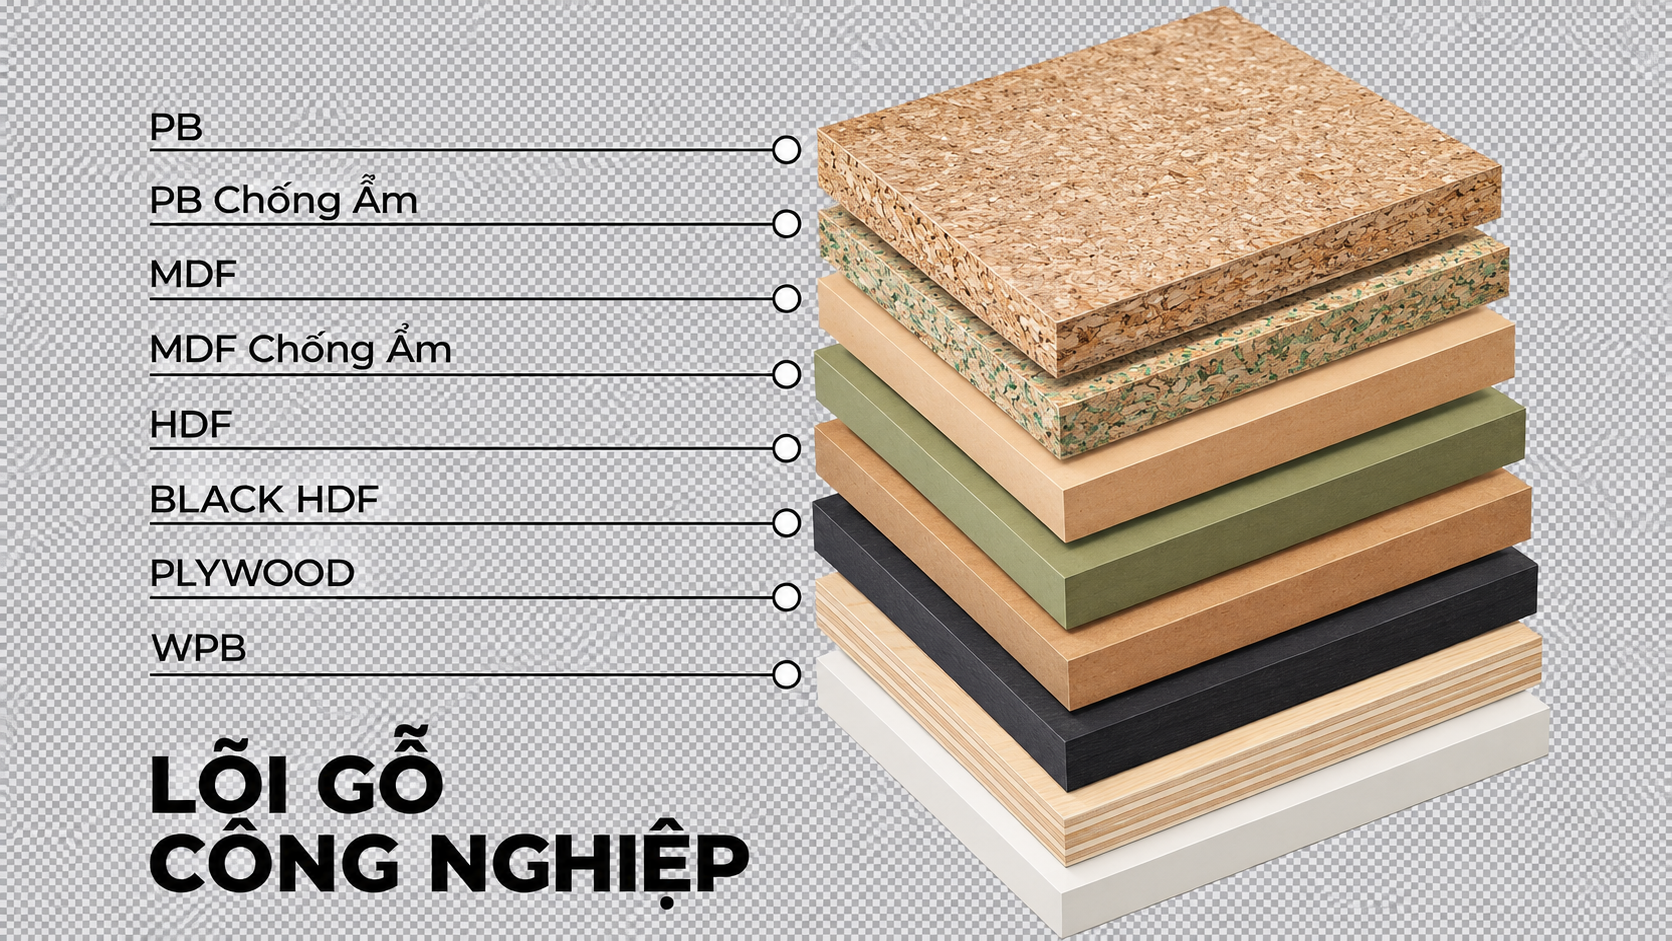
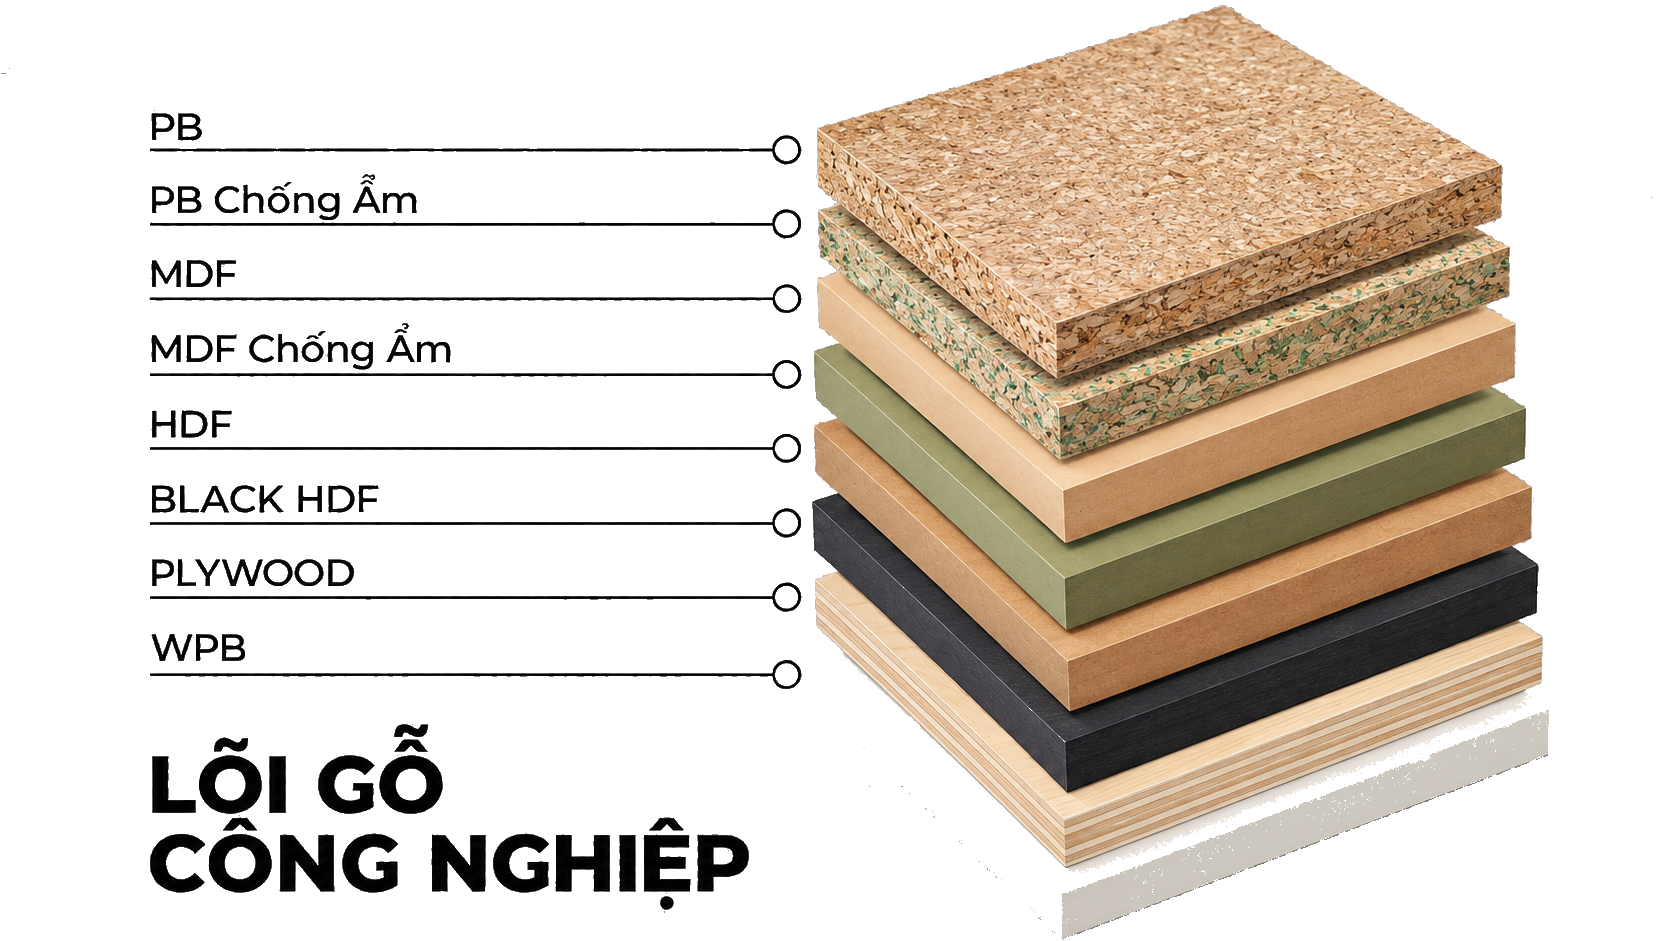
UI update

diff --git a/public/css/style.css b/public/css/style.css
@@ -1802,6 +1802,7 @@ ol {
   }
 
   .factory-tour-list {
+    grid-template-columns: repeat(2, 1fr);
     gap: 1.5rem;
   }
 
@@ -2019,7 +2020,8 @@ ol {
   }
 
   .renovation-showcase-list {
-    gap: 0.75rem;
+    grid-template-columns: repeat(2, 1fr);
+    gap: 1.25rem;
   }
 
   .renovation-showcase-pair {
@@ -2140,6 +2142,69 @@ ol {
     flex-basis: 52px;
     height: 52px;
     width: 52px;
+}
+
+@media (min-width: 1024px) {
+  .furniture-care-wrapper {
+    position: relative;
+    max-width: 920px;
+    margin: 0 auto;
+  }
+
+  .furniture-care-media {
+    margin-bottom: 0;
+    position: relative;
+    border-radius: 12px;
+  }
+
+  .furniture-care-list {
+    position: absolute;
+    inset: 0;
+    pointer-events: none;
+    max-width: none;
+    margin: 0;
+    display: block;
+  }
+
+  .furniture-care-list li {
+    position: absolute;
+    pointer-events: auto;
+    width: fit-content;
+    max-width: 380px;
+    box-shadow: 0 10px 30px rgba(0, 0, 0, 0.1);
+    background: rgba(255, 255, 255, 0.96);
+    border: 1px solid rgba(43, 46, 49, 0.12);
+    border-radius: 12px;
+    padding: 0.5rem 1.1rem 0.5rem 0.65rem;
+    min-height: auto;
+    transition: transform 0.3s ease, box-shadow 0.3s ease;
+  }
+
+  .furniture-care-list li:hover {
+    transform: translateY(-3px);
+    box-shadow: 0 14px 35px rgba(0, 0, 0, 0.15);
+  }
+
+  /* CARD 1: TRÁI - Phía trên */
+  .furniture-care-list li:nth-child(1) {
+    top: 8%;
+    left: -15px;
+  }
+
+  /* CARD 2: PHẢI - Phía giữa */
+  .furniture-care-list li:nth-child(2) {
+    top: 50%;
+    right: -15px;
+    transform: translateY(-50%);
+  }
+  .furniture-care-list li:nth-child(2):hover {
+    transform: translateY(calc(-50% - 3px));
+  }
+
+  /* CARD 3: TRÁI - Phía dưới (Thẳng hàng với Card 1 trên cùng trục X) */
+  .furniture-care-list li:nth-child(3) {
+    bottom: 8%;
+    left: -15px;
   }
 }
 
@@ -2231,7 +2296,8 @@ ol {
 
 @media (min-width: 768px) {
   .project-consultation-list {
-    gap: 0.65rem;
+    grid-template-columns: repeat(2, 1fr);
+    gap: 1rem 1.25rem;
   }
 
   .project-consultation-item {
@@ -2342,7 +2408,8 @@ ol {
 
 @media (min-width: 768px) {
   .work-process-steps-list {
-    gap: 0.65rem;
+    grid-template-columns: repeat(2, 1fr);
+    gap: 1rem 1.25rem;
   }
 
   .work-process-steps-item {
@@ -5825,41 +5892,22 @@ ol {
 
 /* Project Detail Page Styles */
 .project-detail-page {
-  padding-top: calc(var(--header-height-mobile) + 1.5rem);
-  padding-bottom: 4rem;
+  padding-top: calc(var(--header-height-mobile) + 0.5rem);
+  padding-bottom: 2.5rem;
 }
 
 @media (min-width: 1024px) {
   .project-detail-page {
-    padding-top: calc(var(--header-height-desktop) + 2rem);
+    padding-top: calc(var(--header-height-desktop) + 0.6rem);
   }
-}
-
-.breadcrumb-nav {
-  display: flex;
-  align-items: center;
-  gap: 0.5rem;
-  font-size: 0.85rem;
-  color: var(--text-muted);
-  margin-bottom: 1.75rem;
-  flex-wrap: wrap;
-}
-
-.breadcrumb-separator {
-  color: var(--text-muted);
-}
-
-.breadcrumb-current {
-  color: var(--text-primary);
-  font-weight: 600;
 }
 
 .project-detail-title {
   font-size: clamp(1.05rem, 1.8vw, 1.35rem);
   font-weight: 700;
   color: var(--text-primary);
-  margin-top: 1rem;
-  margin-bottom: 0.85rem;
+  margin-top: 0.25rem;
+  margin-bottom: 0.5rem;
   line-height: 1.3;
 }
 
@@ -7808,7 +7856,6 @@ button,
 .btn-header-consult,
 .btn-job-xem-them,
 .filter-btn.active,
-.testimonial-nav button,
 .modal-box button[type="submit"],
 .booking-form button[type="submit"],
 form button[type="submit"],
@@ -7828,7 +7875,6 @@ button:hover,
 .btn-header-consult:hover,
 .btn-job-xem-them:hover,
 .filter-btn.active:hover,
-.testimonial-nav button:hover,
 .modal-box button[type="submit"]:hover,
 .booking-form button[type="submit"]:hover,
 form button[type="submit"]:hover {
@@ -7859,7 +7905,6 @@ button,
 .btn-header-consult,
 .btn-job-xem-them,
 .filter-btn.active,
-.testimonial-nav button,
 .modal-box button[type="submit"],
 .booking-form button[type="submit"],
 form button[type="submit"],
@@ -7878,7 +7923,6 @@ button:hover,
 .btn-header-consult:hover,
 .btn-job-xem-them:hover,
 .filter-btn.active:hover,
-.testimonial-nav button:hover,
 .modal-box button[type="submit"]:hover,
 .booking-form button[type="submit"]:hover,
 form button[type="submit"]:hover,
@@ -9107,4 +9151,20 @@ main .section-v2-title,
   .section-v2-title {
     font-size: clamp(1.5rem, 2vw, 1.85rem) !important;
   }
+}
+
+/* Strictly remove box-shadow, hover lift, scale, glow and animations from testimonial slider nav buttons */
+.booking-testimonial .testimonial-nav button,
+.testimonial-nav button,
+.testimonial-nav .nav-prev,
+.testimonial-nav .nav-next,
+.testimonial-nav button:hover,
+.testimonial-nav button:focus,
+.testimonial-nav button:active {
+  box-shadow: none !important;
+  transform: translateY(-50%) !important;
+  transition: none !important;
+  animation: none !important;
+  filter: none !important;
+  backdrop-filter: none !important;
 }
